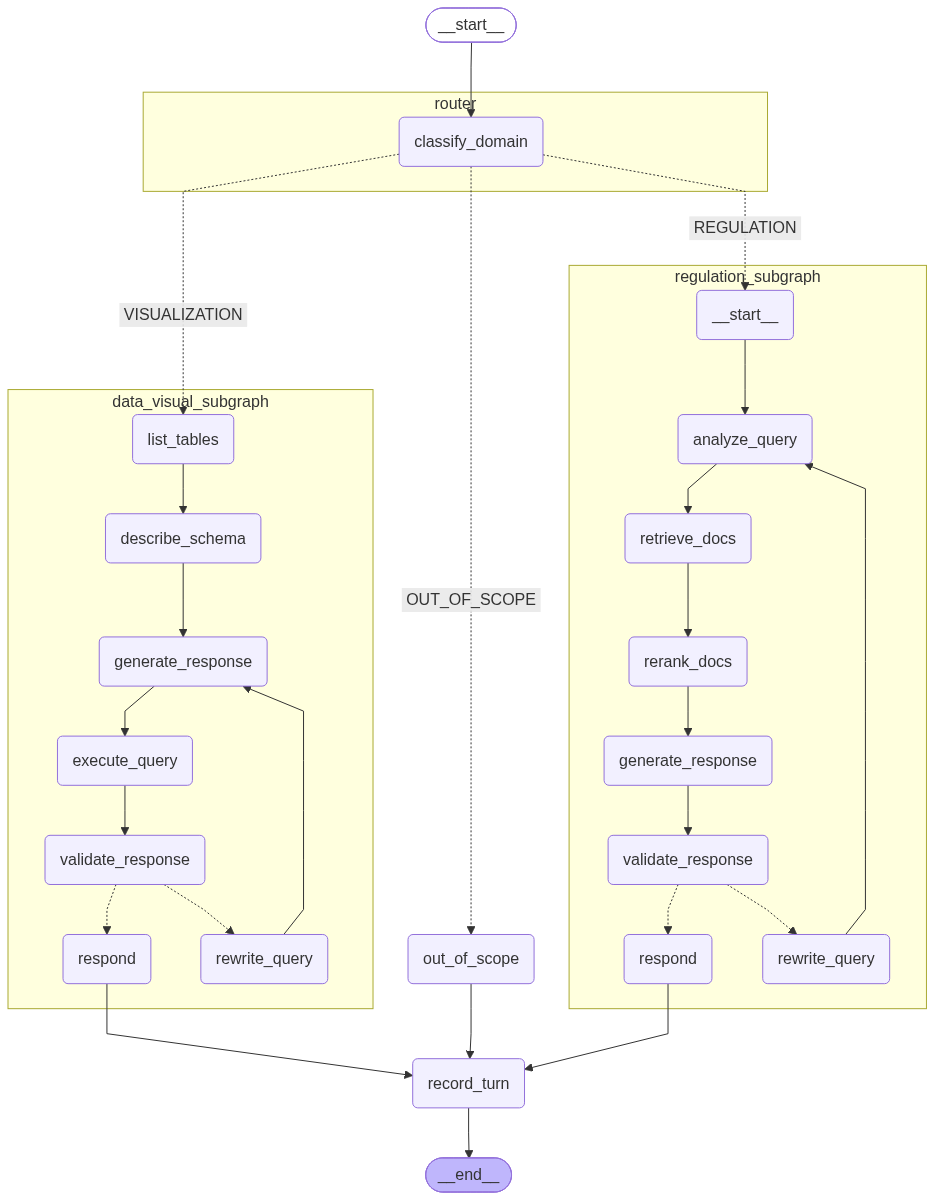
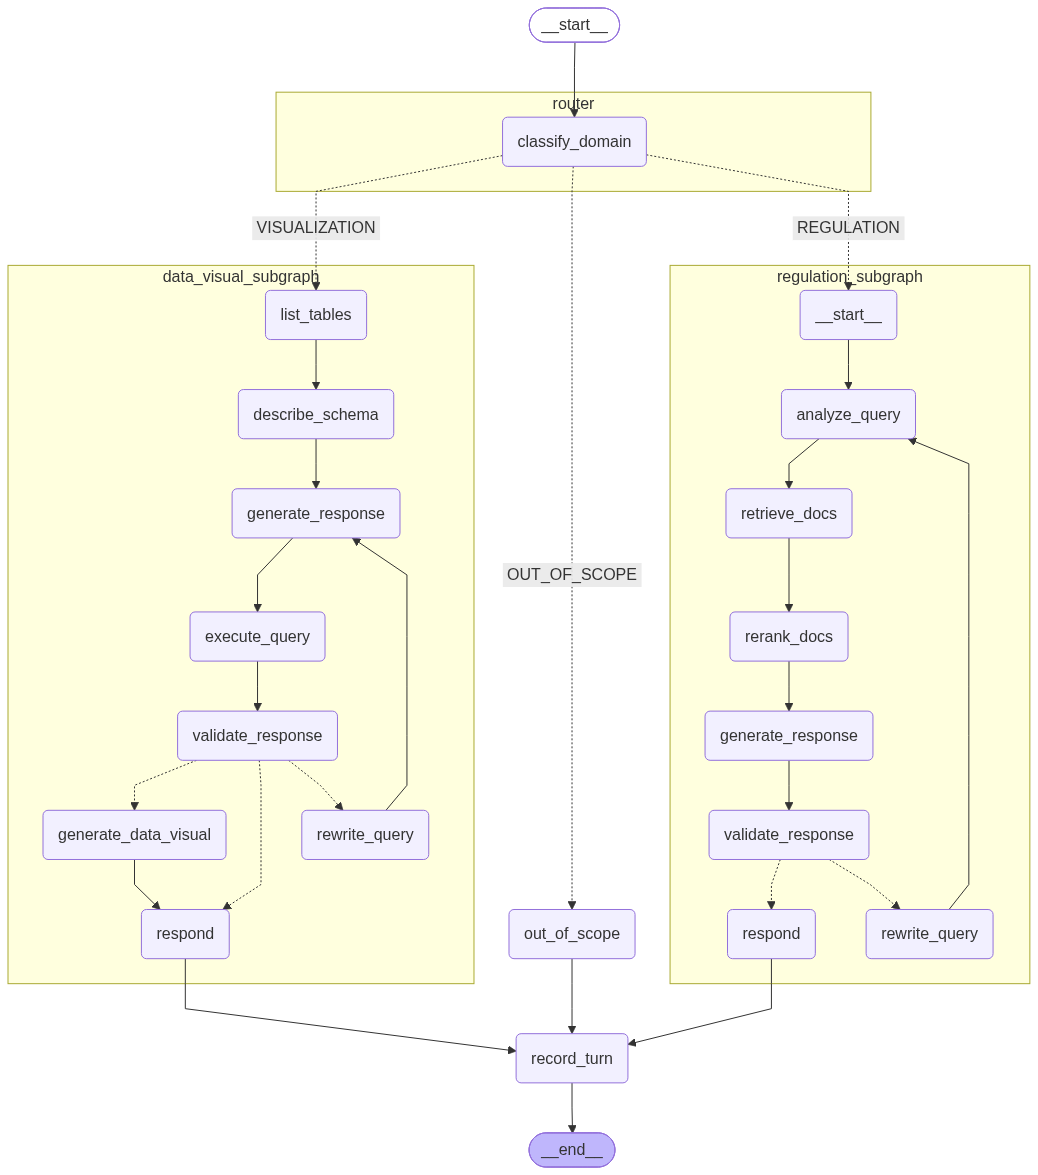
Enhance data visualization capabilities in chatbot

Changed region(s): [[0.0, 0.0, 0.9936, 1.0]]

diff --git a/app/chatbot/data_visual/nodes.py b/app/chatbot/data_visual/nodes.py
@@ -4,7 +4,8 @@ from app.chatbot.state import AgentState
 from app.chatbot.data_visual.prompt import (
     VALIDATE_SQL_RESPONSE_PROMPT,
     REWRITE_SQL_QUERY_PROMPT,
-    GENERATE_SQL_QUERY_PROMPT
+    GENERATE_SQL_QUERY_PROMPT,
+    GENERATE_DATA_VISUALIZATION_PROMPT 
 )
 from app.chatbot.core.models import (
     answer_model, 
@@ -18,7 +19,8 @@ from langchain_core.messages import (
 from app.chatbot.data_visual.schemas import (
     GenerateResponse,
     ReWriteQuery,
-    ValidationResponse
+    ValidationResponse,
+    ChartSpec
 )
 
 from core.database import (
@@ -137,6 +139,7 @@ def generate_response(state: AgentState) -> AgentState:
     return {
         "generated_sql_query": agent_response.answer,
         "generated_sql_confidence": agent_response.confidence,
+        "graph_of_choice" : agent_response.graph_of_choice
     }
 
 def validate_response(state: AgentState) -> AgentState:
@@ -167,13 +170,13 @@ def validate_response(state: AgentState) -> AgentState:
 
 MAX_VALIDATION_ATTEMPTS = 2 
 
-def chosen_route(state: AgentState) -> Literal["respond", "rewrite_query"]:
+def chosen_route(state: AgentState) -> Literal["generate_data_visual", "rewrite_query", "respond"]:
 
     is_valid = state.get("validate_query_is_valid", False)
     confidence = state.get("validate_sql_response_confidence") or 0.0
 
     if is_valid and confidence >= 0.7:
-        return "respond"
+        return "generate_data_visual"
 
 
     if state.get("validation_count", 0) >= MAX_VALIDATION_ATTEMPTS:
@@ -219,12 +222,24 @@ def execute_query(state: AgentState) -> AgentState:
         "data_visual_response" : results
     }
 
+def generate_data_visual(state: AgentState) -> AgentState:
+    agent = answer_model.with_structured_output(ChartSpec)
+    
+    spec = agent.invoke([
+        SystemMessage(content=GENERATE_DATA_VISUALIZATION_PROMPT),
+        HumanMessage(content=f"Rows (JSON):\n{state['data_visual_response']}\n\nSuggested chart type: {state.get('graph_of_choice')}"),
+    ])
+    
+    return {
+        "chart_spec": spec.model_dump()
+    }
+
 ### pass on the data somewhere else? 
 def respond(state: AgentState) -> AgentState:
 
-    result = state["data_visual_response"]
+    data = state.get("data_visual_response", "")
 
-    if isinstance(result, str) and result.startswith("Error:"):
+    if isinstance(data, str) and data.startswith("Error:"):
         return {
             "final_answer": (
                 "I wasn't able to build a working query for that question after a few attempts. "
@@ -233,5 +248,5 @@ def respond(state: AgentState) -> AgentState:
         }
 
     return {
-        "final_answer": result
+        "final_answer": f"Data: {data} Chart Spec: {state.get('chart_spec')} ",
     }

diff --git a/app/chatbot/data_visual/prompt.py b/app/chatbot/data_visual/prompt.py
@@ -47,3 +47,36 @@ Your task:
 - Preserve the original intent of the user's question
 
 Return ONLY the clarified question as plain natural-language text — no SQL, no markdown, no prose beyond the question itself."""
+
+
+GENERATE_DATA_VISUALIZATION_PROMPT = """You are a data-visualization specialist for a Formula 1 analytics terminal.
+You are given the JSON rows returned by a SQL query and a suggested chart type. Your job is to
+produce a CHART SPECIFICATION that maps those columns onto a chart — you never choose colors,
+fonts, or styling. The frontend owns all visual styling; you only describe WHAT to plot.
+
+You must:
+- Inspect the actual columns and value types in the provided rows before deciding anything.
+- Choose the chart_type that best fits the data shape, using the suggested type only as a hint:
+    * categorical comparison (points per driver, wins per team) -> "bar"
+    * one metric across many categories split by a group -> "grouped_bar" or "stacked_bar"
+    * a value over an ordered sequence (round, season, lap) -> "line" (or "area" for a single cumulative series)
+    * relationship between two numeric columns -> "scatter"
+    * parts of a whole, <= 6 slices only -> "pie"
+- Map columns explicitly:
+    * x_field: the category or ordered key (e.g. "driver_name", "round", "season").
+    * y_fields: one or more NUMERIC columns to plot when the data is wide.
+    * series_field: use INSTEAD of multiple y_fields when the data is long — i.e. one numeric
+      column plus a grouping column whose distinct values become the series (e.g. rows of
+      {round, driver, points} -> x_field="round", y_fields=["points"], series_field="driver").
+    * Never put a non-numeric column in y_fields.
+- Set color_by to "team" when series/categories are F1 teams, "driver" when they are drivers
+  (so the frontend can apply identity colors), otherwise "categorical" or "sequential".
+- Write short, specific title and axis labels in F1 terminal style (concise, no fluff).
+
+Constraints:
+- Only reference column names that actually appear in the provided rows.
+- If the result is a single scalar (one row, one value), there is nothing meaningful to chart —
+  choose "bar" with that single value and say so in reasoning; the frontend may show a stat instead.
+- reasoning: one sentence on why this encoding fits the data.
+
+Return ONLY the structured fields — no SQL, no markdown, no prose outside the schema."""

diff --git a/app/chatbot/data_visual/graph.py b/app/chatbot/data_visual/graph.py
@@ -13,6 +13,7 @@ from app.chatbot.data_visual.nodes import (
     validate_response,
     rewrite_query,
     chosen_route,
+    generate_data_visual, 
     respond
 )
 
@@ -29,6 +30,7 @@ def build_data_visual_graph():
     builder.add_node("execute_query", execute_query)
     builder.add_node("validate_response", validate_response)
     builder.add_node("rewrite_query", rewrite_query)
+    builder.add_node("generate_data_visual", generate_data_visual)
     builder.add_node("respond", respond)
 
     builder.add_edge(
@@ -57,16 +59,18 @@ def build_data_visual_graph():
         chosen_route,
         {
             "rewrite_query" : "rewrite_query",
-            "respond" : "respond"
+            "generate_data_visual" : "generate_data_visual",
+            "respond" : "respond",
         }
     )
 
     builder.add_edge("rewrite_query", "generate_response")
+    builder.add_edge("generate_data_visual", "respond")
     builder.add_edge("respond", END)
 
     return builder.compile()
 
 
 data_visual_graph = build_data_visual_graph() 
-
+# data_visual_graph.get_graph().draw_mermaid_png()
 

diff --git a/app/chatbot/data_visual/schemas.py b/app/chatbot/data_visual/schemas.py
@@ -1,8 +1,10 @@
 from pydantic import BaseModel
+from typing import Literal
 
 class GenerateResponse(BaseModel): 
     answer: str 
     confidence: float
+    graph_of_choice: str 
     
 class ValidationResponse(BaseModel):
     is_valid: bool
@@ -14,3 +16,14 @@ class ReWriteQuery(BaseModel):
     new_query: str
 
 
+class ChartSpec(BaseModel):
+    chart_type: Literal["bar", "grouped_bar", "stacked_bar", "line", "area", "scatter", "pie"]
+    title: str
+    subtitle: str | None = None
+    x_field: str                    
+    y_fields: list[str]            
+    series_field: str | None = None 
+    x_label: str | None = None
+    y_label: str | None = None
+    color_by: Literal["team", "driver", "categorical", "sequential"] = "categorical"
+    reasoning: str

diff --git a/app/chatbot/state.py b/app/chatbot/state.py
@@ -78,7 +78,8 @@ class AgentState(TypedDict, total=False):
     validate_sql_response_reason: str 
     validation_sql_count: int 
     data_visual_response: str 
-    # data_visual_output: ?? 
+    graph_of_choice: str 
+    chart_spec: dict 
 
 
     #Output

diff --git a/app/chatbot/graph.py b/app/chatbot/graph.py
@@ -75,3 +75,4 @@ def build_terminal_chat():
 
 
 terminal_chat = build_terminal_chat()
+# terminal_chat.get_graph(xray=True).draw_mermaid_png()
